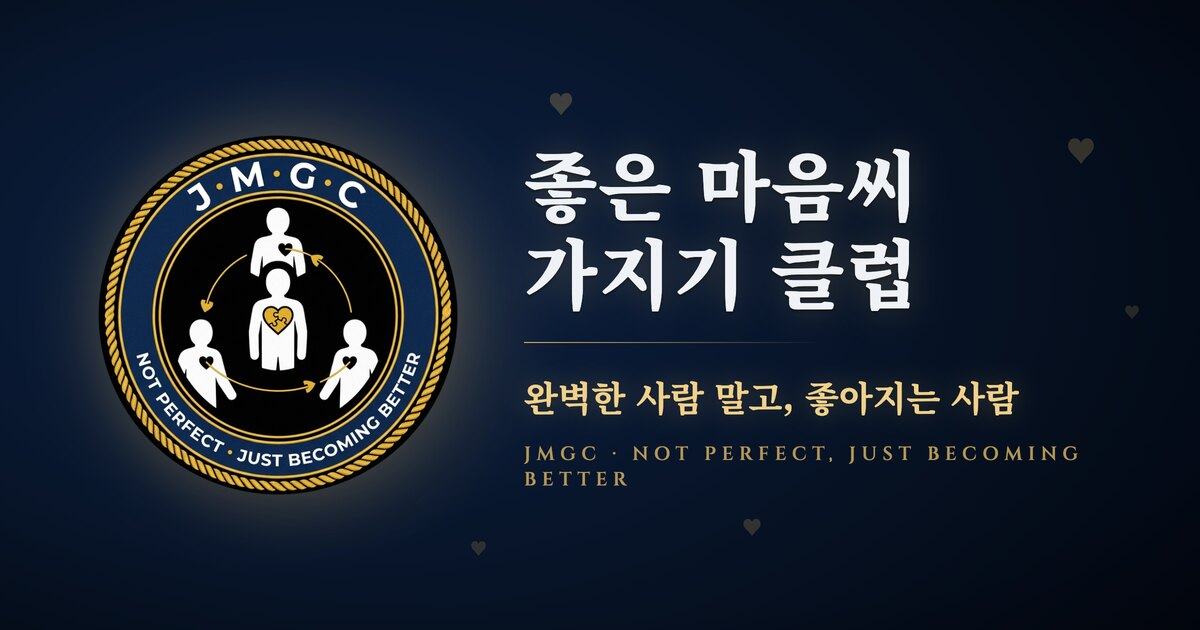
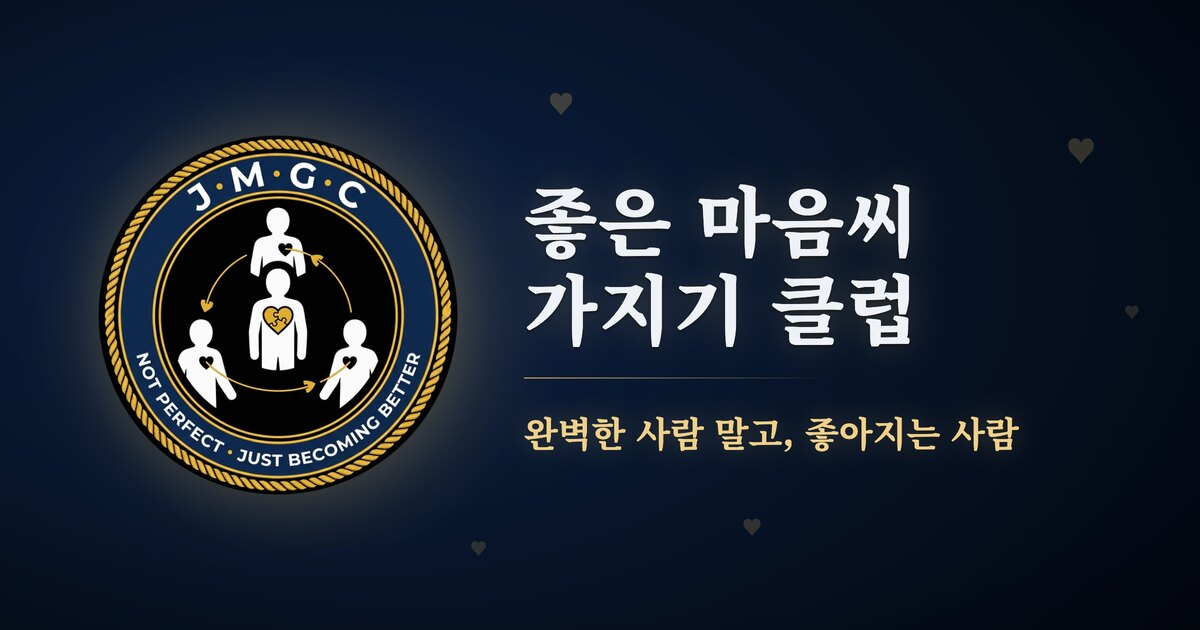
모바일 비율 수정(이미지 헤더 쪽 정렬, 붕뜸 제거) + OG카드 영어줄 제거

Changed region(s): [[0.4317, 0.2413, 0.8942, 0.7841]]

diff --git a/index.html b/index.html
@@ -87,8 +87,8 @@ body.mopen #stage{opacity:0;pointer-events:none;transition:opacity .45s ease}
 .namebtn:hover .wordmark,.namebtn:focus-visible .wordmark{filter:drop-shadow(0 0 18px rgba(231,200,132,.5))}
 .namebtn:active{transform:scale(.98)}
 
-.gallery{flex:1 1 auto;min-height:0;width:100%;display:flex;align-items:center;justify-content:center;
-  padding-top:clamp(20px,4vh,42px)}
+.gallery{flex:1 1 auto;min-height:0;width:100%;display:flex;align-items:flex-start;justify-content:center;
+  padding-top:clamp(30px,5.5vh,52px)}
 .gallery img{width:min(92vw,62vh,560px);aspect-ratio:1/1;object-fit:cover;display:block;border-radius:10px;
   opacity:0;transform:translateY(16px);transition:opacity 1s ease,transform 1s ease;
   filter:drop-shadow(0 18px 46px rgba(0,0,0,.55))}
